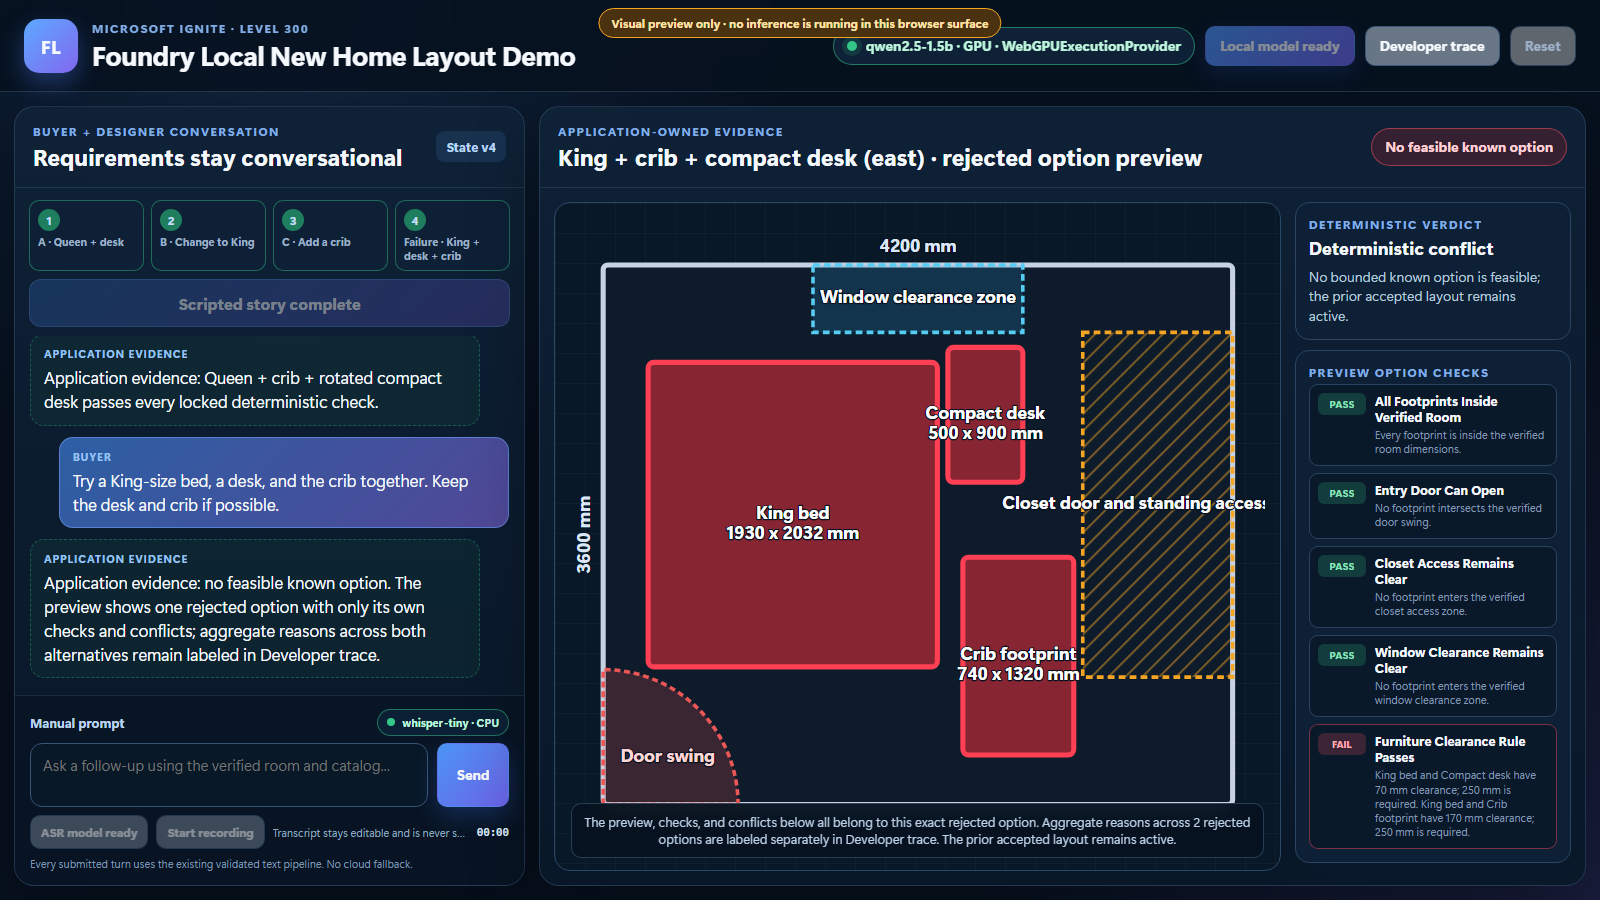
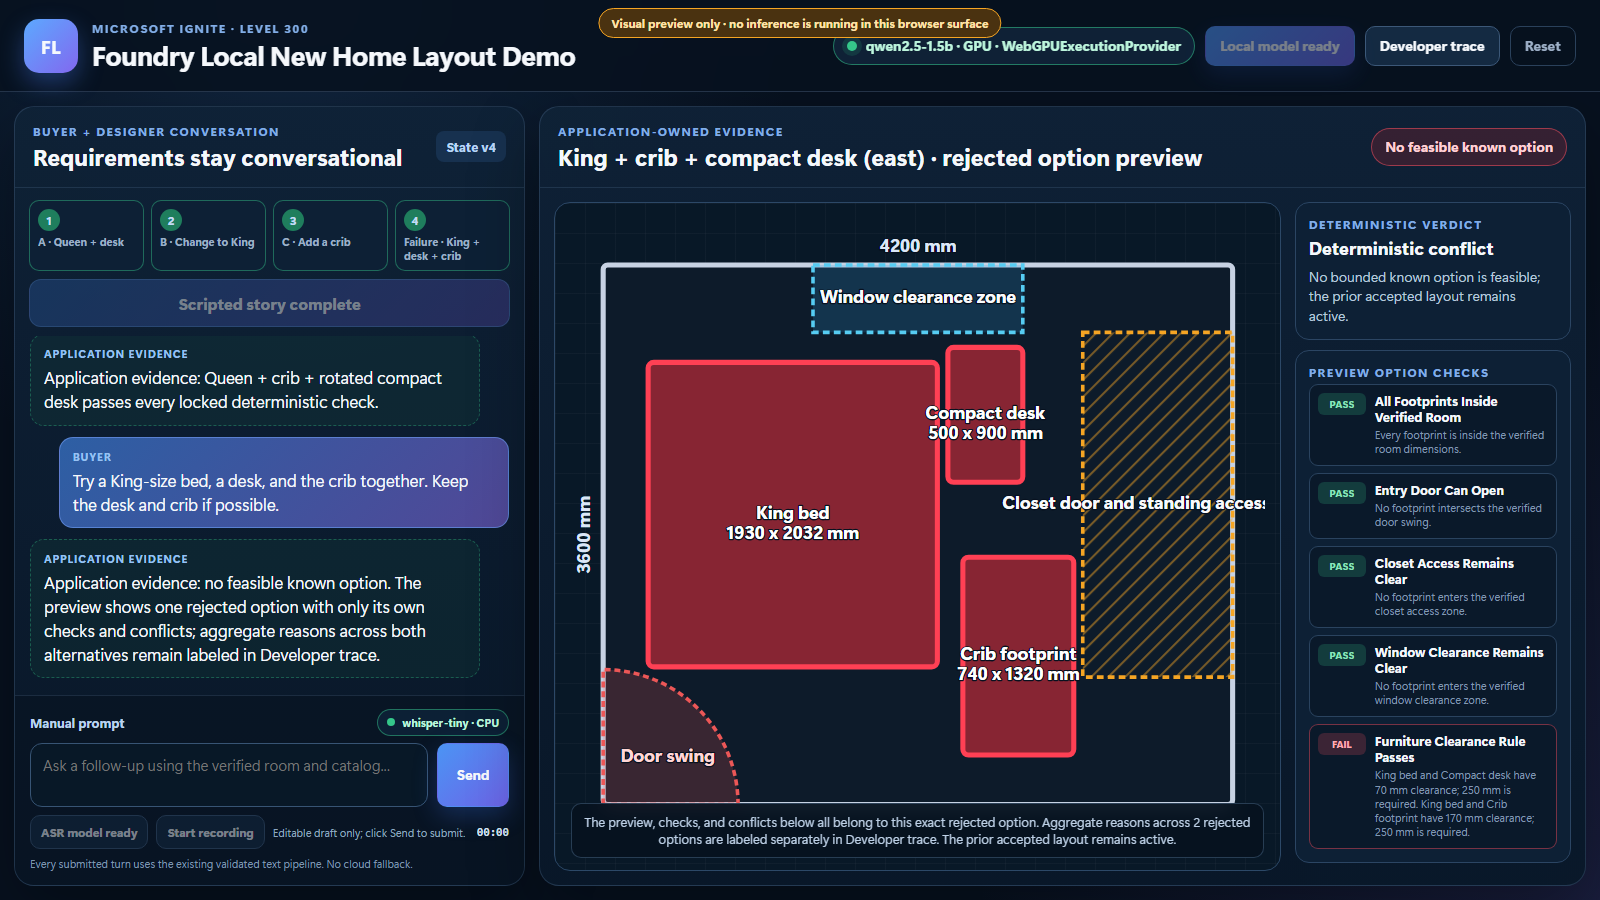
Align audio trace and stage copy
Copilot-Session: d1a2067a-cea4-4a44-9519-9c046e1f4e4c

Changed region(s): [[0.0, 0.9022, 0.2812, 0.9644], [0.8438, 0.0311, 1.0, 0.0933]]

diff --git a/src/renderer/renderer.ts b/src/renderer/renderer.ts
@@ -39,7 +39,7 @@ let viewState: BootstrapPayload;
 let latestToolResult: LayoutToolResult | null = null;
 let isBusy = false;
 let audioRecorderState: AudioRecorderState = { status: "idle", elapsedMs: 0, detail: "" };
-let audioNotice = "Transcript stays editable and is never submitted automatically.";
+let audioNotice = "Editable draft only; click Send to submit.";
 const recorderOperationRef: AudioRecorderOperationRef = { current: null };
 let audioOperationId = 0;
 
@@ -186,7 +186,7 @@ resetButton.addEventListener("click", async () => {
   }
   viewState = bootstrap;
   latestToolResult = null;
-  audioNotice = "Transcript stays editable and is never submitted automatically.";
+  audioNotice = "Editable draft only; click Send to submit.";
   renderAll();
 });
 

diff --git a/index.html b/index.html
@@ -82,9 +82,7 @@
               </button>
               <div class="audio-status-row" aria-live="polite">
                 <span id="recordingIndicator" class="recording-indicator" hidden></span>
-                <span id="audioStatus"
-                  >Transcript stays editable and is never submitted automatically.</span
-                >
+                <span id="audioStatus">Editable draft only; click Send to submit.</span>
                 <span id="recordingTimer" class="recording-timer">00:00</span>
               </div>
             </div>

diff --git a/DEMO-RUNBOOK.md b/DEMO-RUNBOOK.md
@@ -36,8 +36,9 @@ In the app:
    - planning mode: runtime-guided JSON Schema to app tool invocation.
 4. Select **Prepare microphone** and confirm the separate voice badge shows
    `whisper-tiny · CPU`.
-5. Confirm the audio trace identifies `openai-whisper-tiny-generic-cpu:4`, CPU EP, English, and no
-   external endpoint.
+5. In **Runtime + locked state**, confirm audio readiness identifies
+   `openai-whisper-tiny-generic-cpu:4`, CPU EP, English, and no external endpoint. The
+   **Speech-to-text** pane remains empty until a voice turn is transcribed.
 6. Select **Reset**, then load both models again. Reset intentionally unloads the audio model and
    deletes any capture.
 7. Close the trace for the opening shot.
@@ -54,9 +55,11 @@ Before the audience arrives:
 1. Start the actual Electron app and load both the layout and audio models.
 2. Rehearse one real voice Turn A and verify the transcript before clicking Send.
 3. Run Turn B and Turn C with typed/scripted input.
-4. Capture clearly labeled pre-run evidence for Turn B and Turn C.
+4. Capture clearly labeled pre-run evidence for Turn B and Turn C, including the ASR identity,
+   model plan, app validation, and geometry result.
 5. Reset the live app to state v0 and load both models for the talk.
-6. Confirm Developer trace contains the ASR identity, model plan, app validation, and geometry result.
+6. Confirm the live Developer trace shows exact text/audio readiness, and keep the captured pre-run
+   Turn B/Turn C evidence ready for the condensed story.
 
 Turn B and Turn C evidence is real Foundry Local output produced during rehearsal, but it is
 **pre-run**. Label it that way. The browser screenshot is recovery evidence only, never a live-demo
